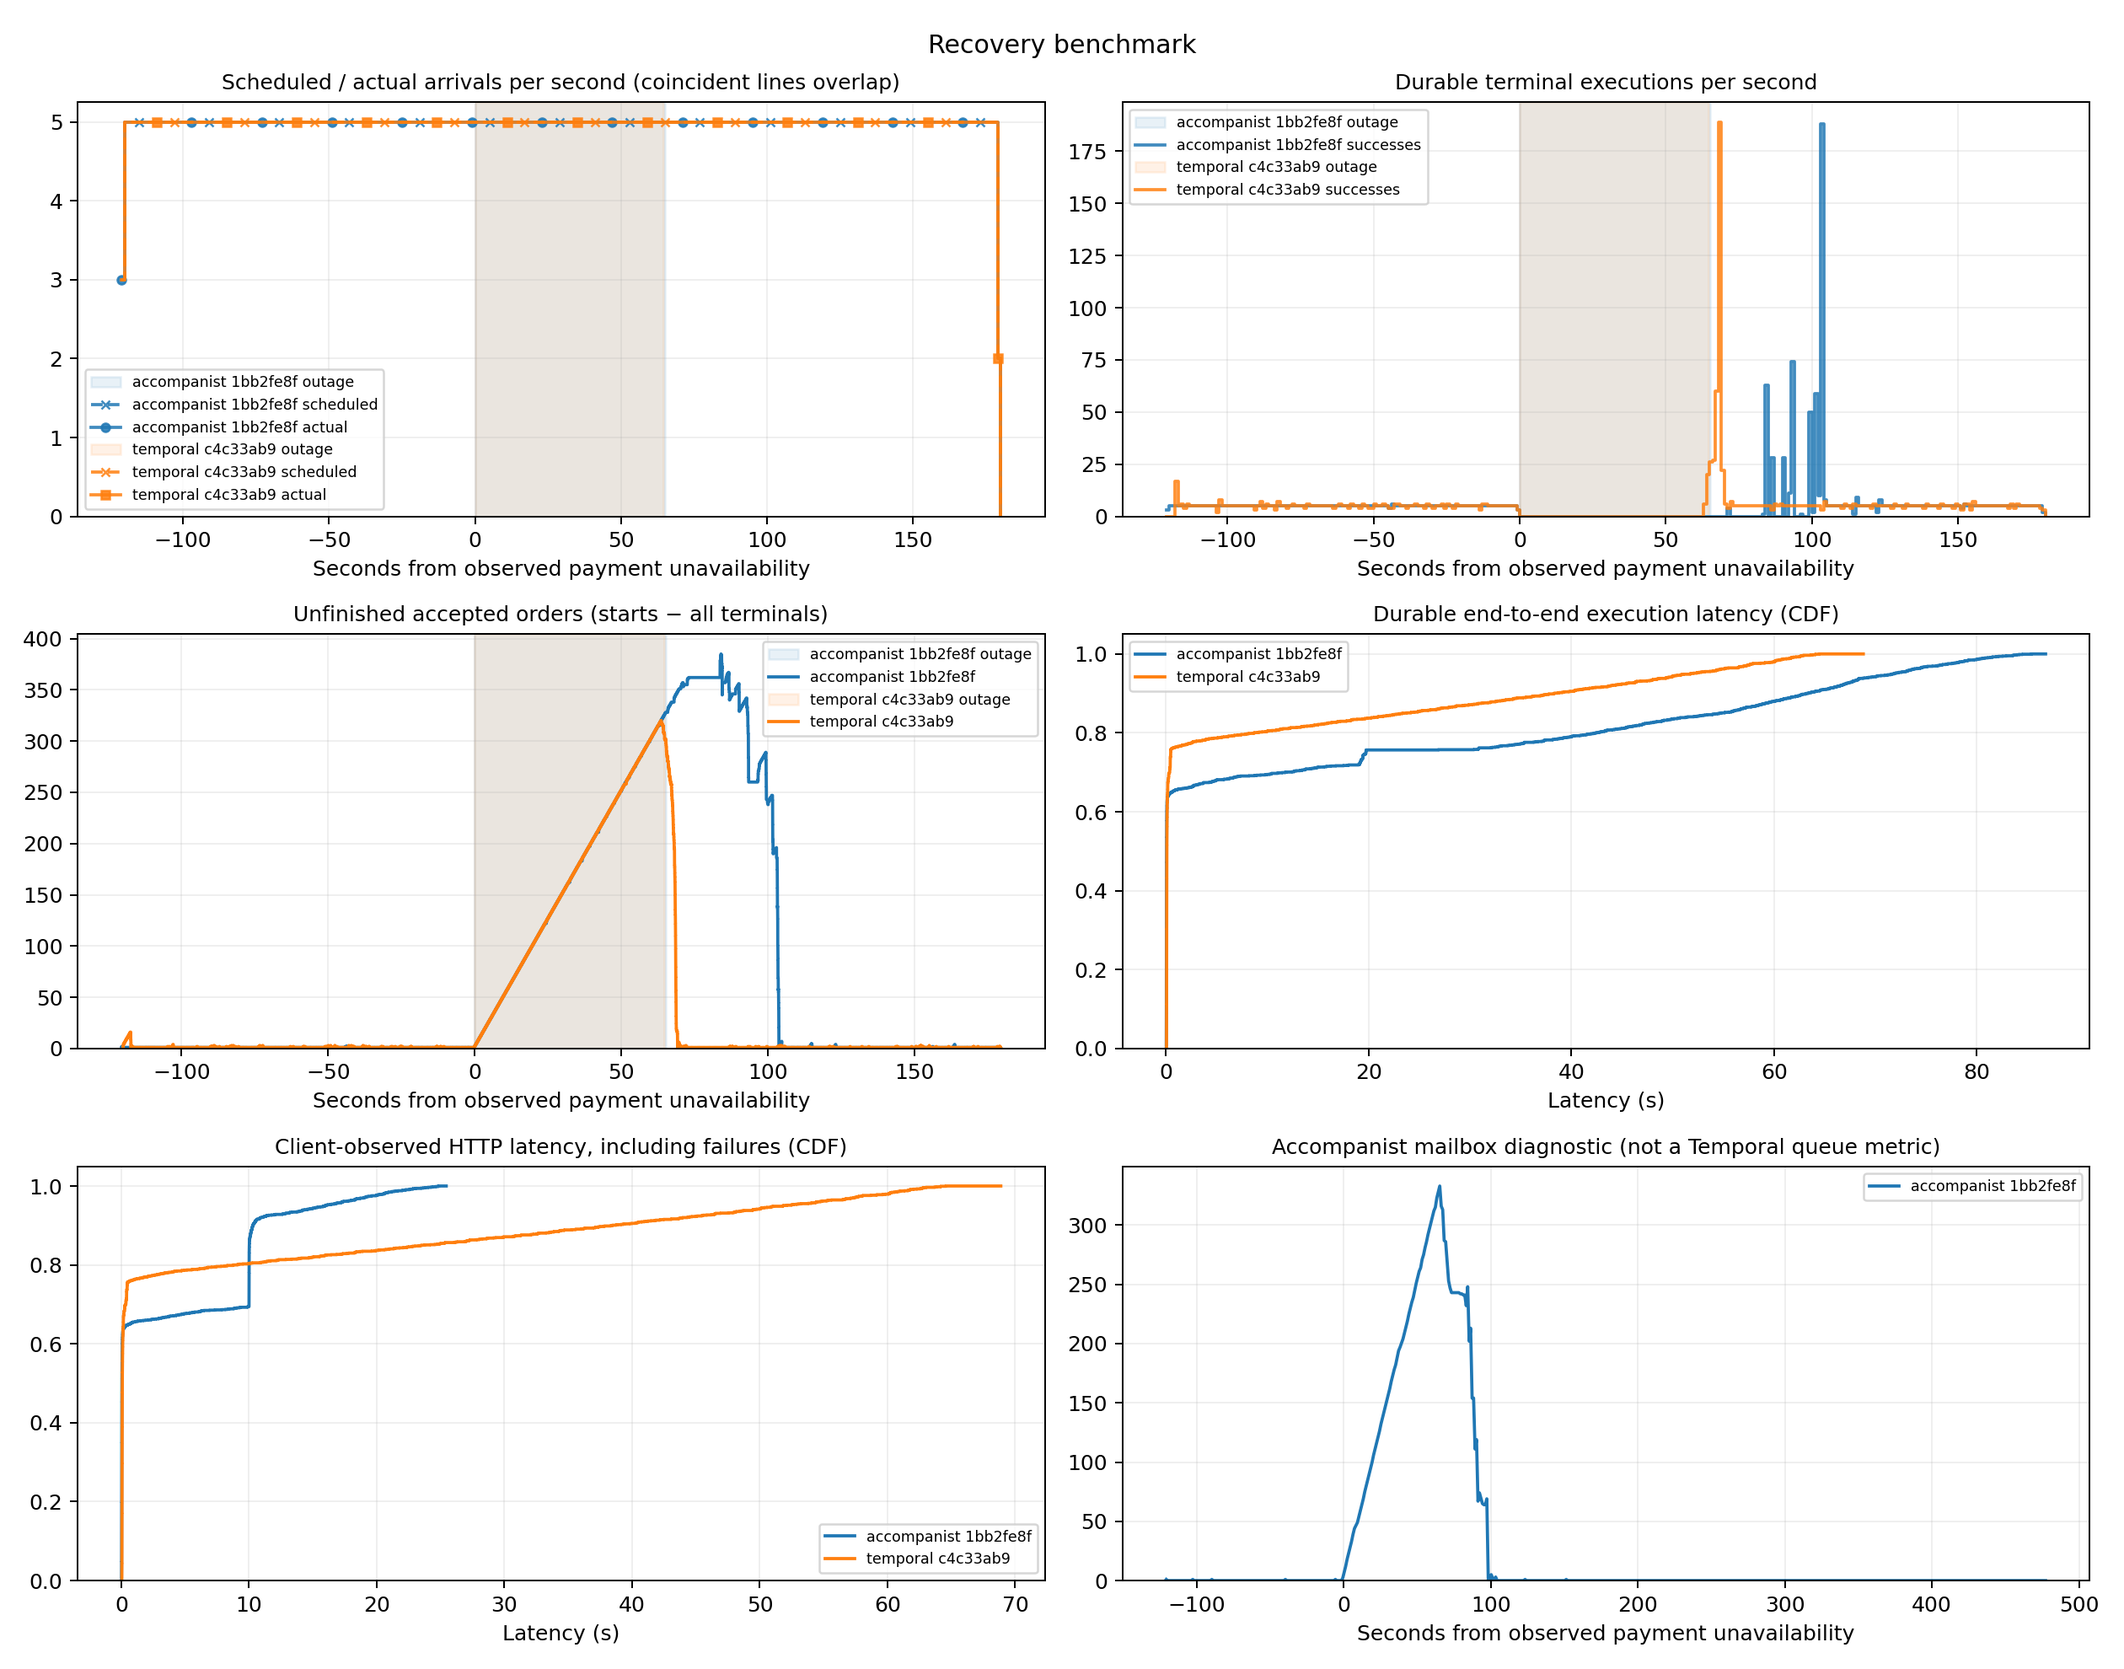
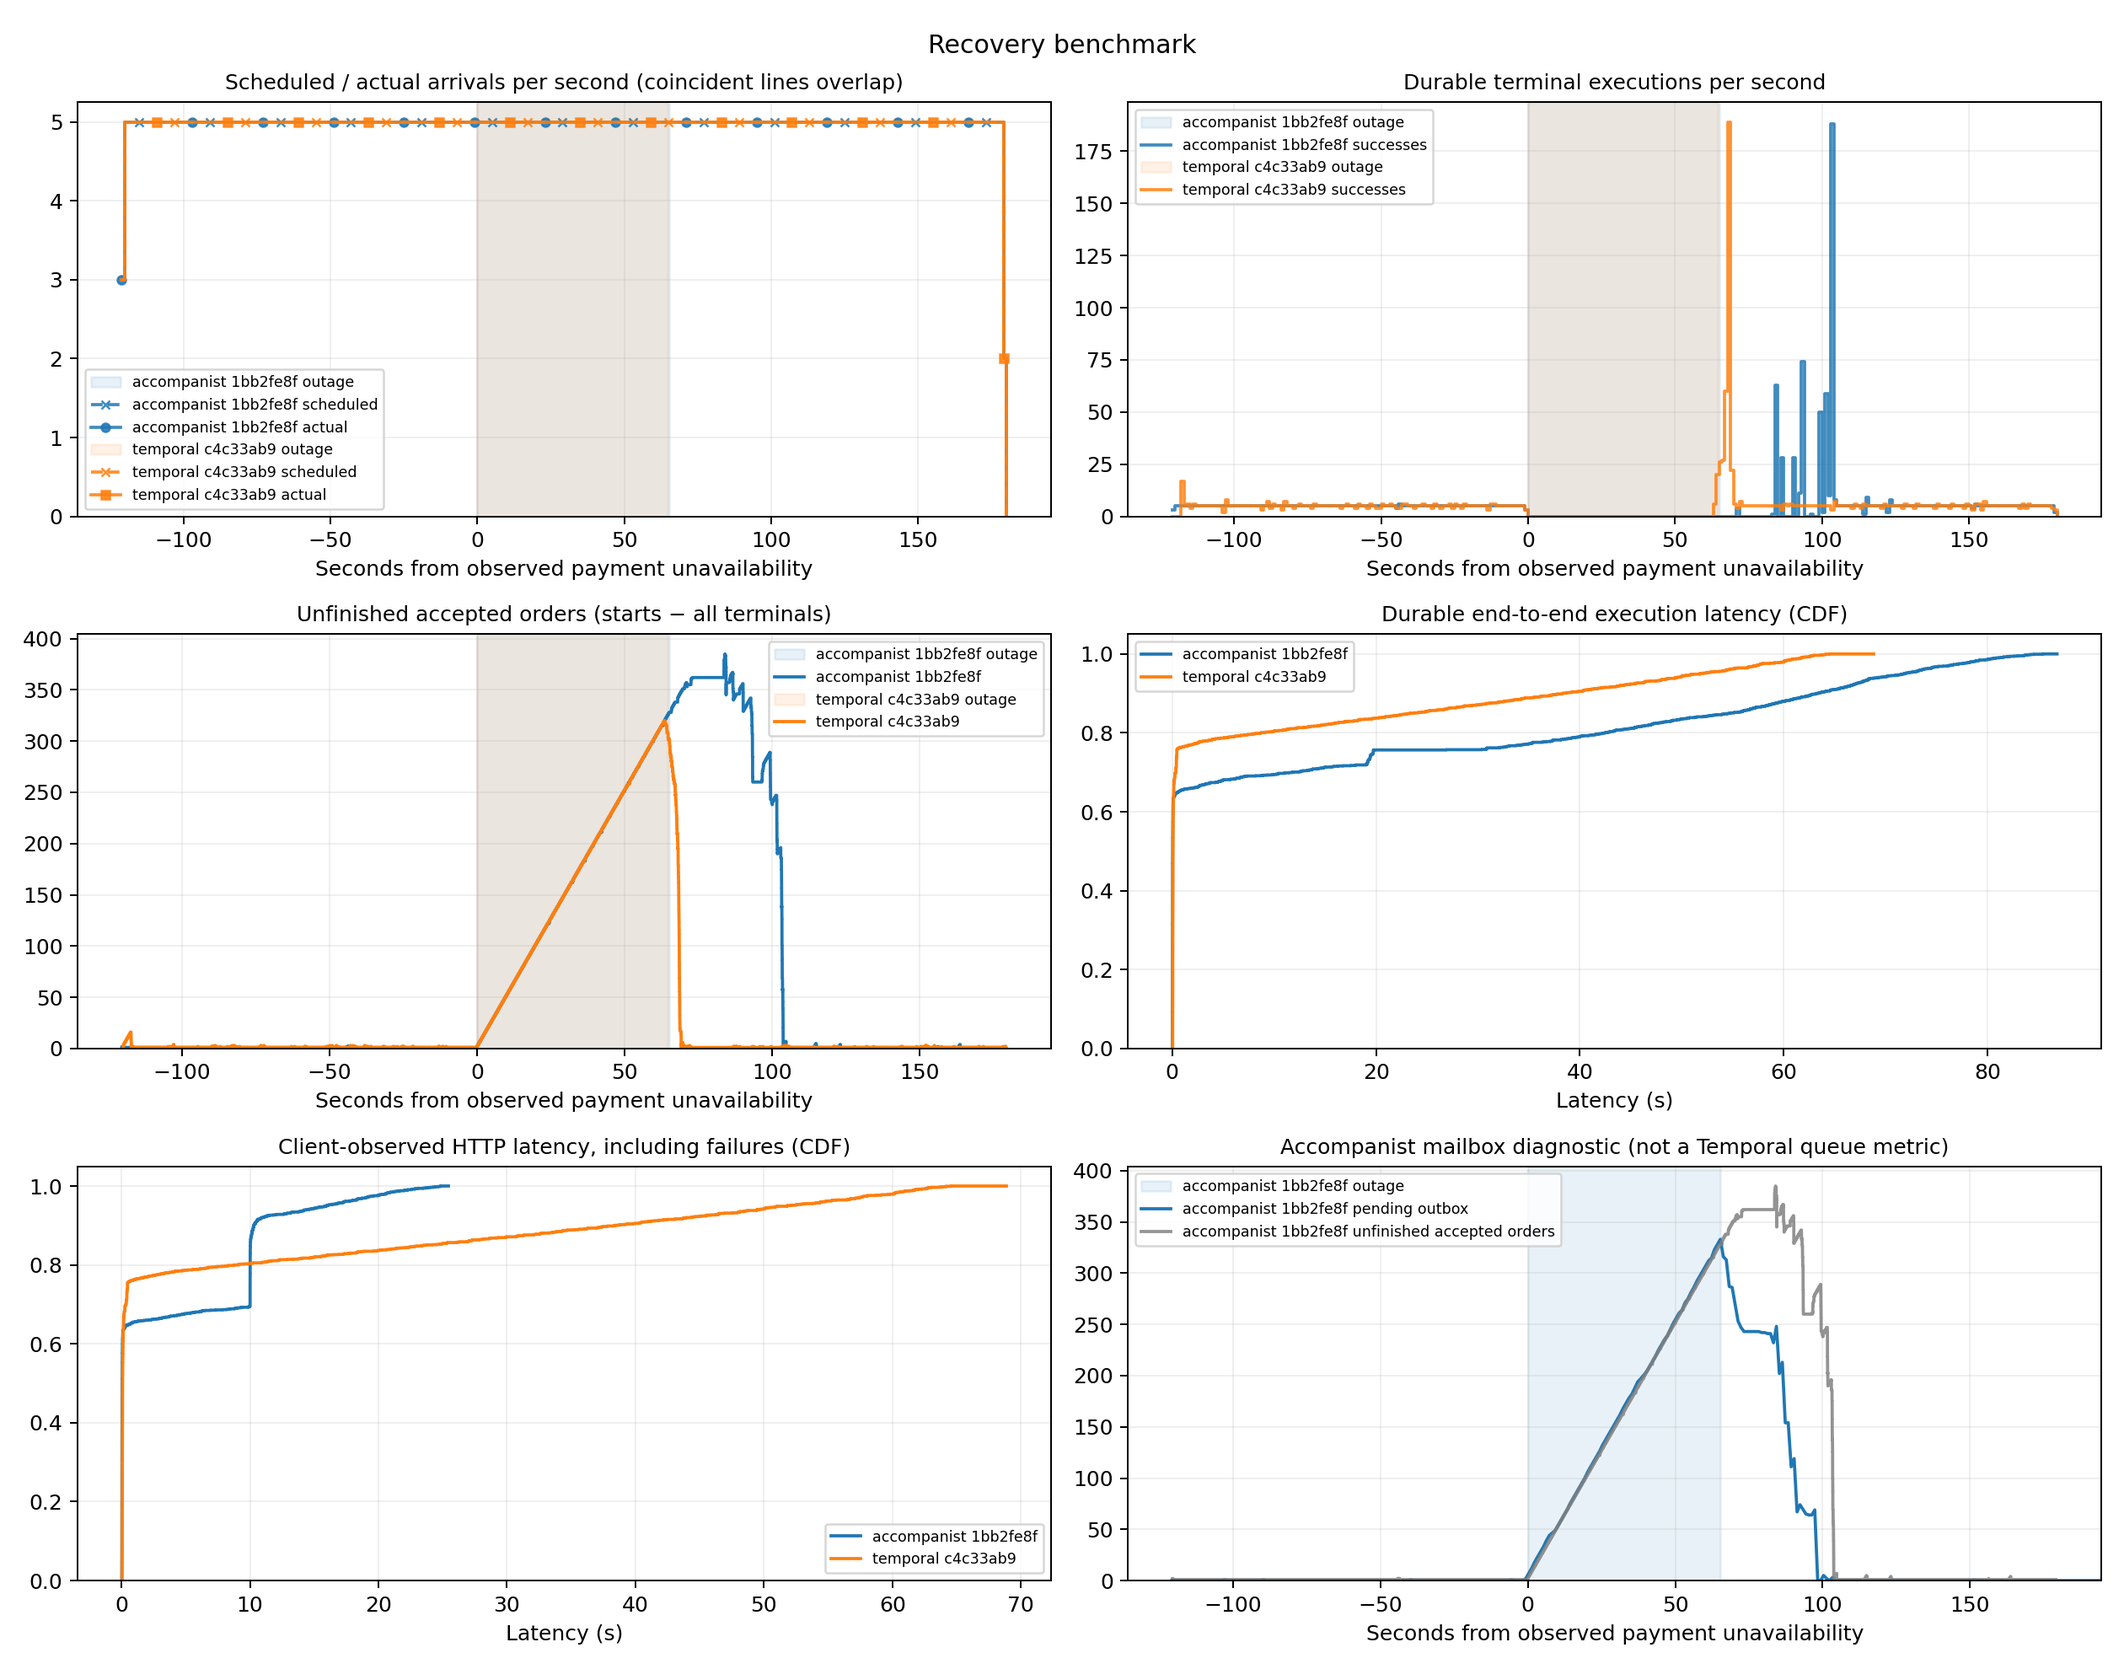
Add first AWS fault tolerance benchmark

diff --git a/examples/warehouse/benchmark_deploy.py b/examples/warehouse/benchmark_deploy.py
@@ -2,6 +2,8 @@
 """Build and deploy one benchmark stack, retaining evidence and shared storage."""
 import argparse
 import json
+import re
+import shlex
 import subprocess
 import tempfile
 from pathlib import Path
@@ -14,14 +16,58 @@ STACKS = {
                  'temporal-admin-tools', 'temporal-ui', 'postgresql'],
 }
 
+ECR_REPOSITORY = re.compile(
+    r'^(?:https?://)?(?P<registry>[0-9]+\.dkr\.ecr\.(?P<region>[a-z0-9-]+)\.amazonaws\.com(?:\.cn)?)(?:/|$)'
+)
+
+
+def authenticate_registry(default_repo):
+    """Log Docker into private ECR when the selected repository is hosted there."""
+    match = ECR_REPOSITORY.match(default_repo or '')
+    if not match:
+        return
+    password = subprocess.run(
+        ['aws', 'ecr', 'get-login-password', '--region', match.group('region')],
+        check=True, stdout=subprocess.PIPE,
+    ).stdout
+    subprocess.run(
+        ['docker', 'login', '--username', 'AWS', '--password-stdin', match.group('registry')],
+        input=password, check=True,
+    )
+
+
+def remote_build_options(default_repo):
+    """Match images to the x86-64 EKS nodes without colliding with native Mac tags."""
+    if not ECR_REPOSITORY.match(default_repo or ''):
+        return []
+    revision = subprocess.check_output(
+        ['git', 'rev-parse', '--short', 'HEAD'], cwd=ROOT, text=True,
+    ).strip()
+    return ['--platform', 'linux/amd64', '--tag', f'{revision}-linux-amd64']
+
+
+def ensure_namespace(context, namespace):
+    """Create or retain the dedicated benchmark namespace."""
+    manifest = {
+        'apiVersion': 'v1',
+        'kind': 'Namespace',
+        'metadata': {'name': namespace},
+    }
+    subprocess.run(
+        ['kubectl', '--context', context, 'apply', '-f', '-'],
+        input=json.dumps(manifest), text=True, check=True,
+    )
+
 
 def main():
     parser = argparse.ArgumentParser(description=__doc__)
     parser.add_argument('system', choices=STACKS)
     parser.add_argument('--context', required=True)
-    parser.add_argument('--namespace', default='warehouse-benchmark', help='Existing dedicated namespace')
+    parser.add_argument('--namespace', default='warehouse-benchmark', help='Dedicated namespace to create or reuse')
     parser.add_argument('--default-repo', help='Registry prefix, required for EKS')
     args = parser.parse_args()
+    authenticate_registry(args.default_repo)
+    ensure_namespace(args.context, args.namespace)
     kube = ['kubectl', '--context', args.context, '-n', args.namespace]
     def output(*cmd):
         return subprocess.check_output([*kube, *cmd], text=True, timeout=60)
@@ -37,10 +83,18 @@ def main():
             raise SystemExit(f'Collect and drain run {guard} before deploying or switching stacks')
     profile = ['-p','temporal'] if args.system == 'temporal' else []
     registry = ['--default-repo',args.default_repo] if args.default_repo else []
+    build_options = remote_build_options(args.default_repo)
     with tempfile.TemporaryDirectory(prefix='warehouse-deploy-') as directory:
         artifacts = str(Path(directory)/'images.json')
-        subprocess.run(['skaffold','build',*profile,*registry,'--kube-context',args.context,'--file-output',artifacts], cwd=ROOT, check=True)
-        rendered = subprocess.check_output(['skaffold','render',*profile,'--build-artifacts',artifacts],cwd=ROOT,text=True)
+        subprocess.run(
+            ['skaffold', 'build', *profile, *registry, *build_options,
+             '--kube-context', args.context, '--file-output', artifacts],
+            cwd=ROOT, check=True,
+        )
+        rendered = subprocess.check_output(
+            ['skaffold', 'render', *profile, *registry, '--build-artifacts', artifacts],
+            cwd=ROOT, text=True,
+        )
         # Disable UI starts during switching, then recheck the persistent guard to close the race.
         if existing:
             subprocess.run([*kube,'scale','deployment/loadgenerator','--replicas=0'],check=True)
@@ -72,7 +126,11 @@ def main():
         subprocess.run([*kube,'delete','service',*STACKS[other],'--ignore-not-found'],check=True)
         subprocess.run([*kube,'apply','-f','-'],input=rendered,text=True,check=True)
         subprocess.run([*kube,'rollout','status','deployment','--timeout=600s'],check=True)
-    print(f'{args.system} ready. Port-forward service/loadgenerator 8089:8089 in context {args.context}, namespace {args.namespace}.')
+    port_forward = shlex.join([
+        'kubectl', '--context', args.context, '--namespace', args.namespace,
+        'port-forward', 'service/loadgenerator', '8089:8089',
+    ])
+    print(f'{args.system} ready. Start the load-generator port forward with:\n{port_forward}')
 
 
 if __name__=='__main__': main()

diff --git a/examples/warehouse/tests/test_deploy.py b/examples/warehouse/tests/test_deploy.py
@@ -1,0 +1,62 @@
+"""Deployment helper tests that do not require benchmark runtime dependencies."""
+import sys
+import json
+import unittest
+from pathlib import Path
+from unittest.mock import patch
+
+sys.path.insert(0, str(Path(__file__).resolve().parents[1]))
+import benchmark_deploy
+
+
+class RegistryAuthenticationTests(unittest.TestCase):
+    @patch.object(benchmark_deploy.subprocess, 'run')
+    def test_private_ecr_login_uses_repository_region(self, run):
+        run.return_value.stdout = b'temporary-password\n'
+        benchmark_deploy.authenticate_registry(
+            '727646482479.dkr.ecr.eu-central-1.amazonaws.com/warehouse-eks-example'
+        )
+        self.assertEqual(run.call_args_list[0].args[0], [
+            'aws', 'ecr', 'get-login-password', '--region', 'eu-central-1'
+        ])
+        self.assertEqual(run.call_args_list[1].args[0], [
+            'docker', 'login', '--username', 'AWS', '--password-stdin',
+            '727646482479.dkr.ecr.eu-central-1.amazonaws.com'
+        ])
+        self.assertEqual(run.call_args_list[1].kwargs['input'], b'temporary-password\n')
+
+    @patch.object(benchmark_deploy.subprocess, 'run')
+    def test_non_ecr_repository_does_not_login(self, run):
+        benchmark_deploy.authenticate_registry('localhost:5000/warehouse')
+        run.assert_not_called()
+
+    @patch.object(benchmark_deploy.subprocess, 'run')
+    def test_namespace_is_applied_idempotently(self, run):
+        benchmark_deploy.ensure_namespace('eks-context', 'warehouse-benchmark')
+        self.assertEqual(run.call_args.args[0], [
+            'kubectl', '--context', 'eks-context', 'apply', '-f', '-'
+        ])
+        manifest = json.loads(run.call_args.kwargs['input'])
+        self.assertEqual(manifest, {
+            'apiVersion': 'v1',
+            'kind': 'Namespace',
+            'metadata': {'name': 'warehouse-benchmark'},
+        })
+
+    @patch.object(benchmark_deploy.subprocess, 'check_output', return_value='455e2f4\n')
+    def test_ecr_build_targets_x86_with_distinct_tag(self, check_output):
+        options = benchmark_deploy.remote_build_options(
+            '727646482479.dkr.ecr.eu-central-1.amazonaws.com/warehouse-eks-example'
+        )
+        self.assertEqual(options, [
+            '--platform', 'linux/amd64', '--tag', '455e2f4-linux-amd64'
+        ])
+
+    @patch.object(benchmark_deploy.subprocess, 'check_output')
+    def test_local_build_uses_native_platform_and_tag(self, check_output):
+        self.assertEqual(benchmark_deploy.remote_build_options(None), [])
+        check_output.assert_not_called()
+
+
+if __name__ == '__main__':
+    unittest.main()

diff --git a/examples/warehouse/results/plot_run.py b/examples/warehouse/results/plot_run.py
@@ -88,7 +88,8 @@ def plot(bundles, output):
         if xs:
             xs.append(max(xs[-1], phases.get("test-stop", origin) - origin))
             ys.append(outstanding)
-        axes[2].step(xs, ys, where="post", color=color, label=label)
+        unfinished_xs, unfinished_ys = xs, ys
+        axes[2].step(unfinished_xs, unfinished_ys, where="post", color=color, label=label)
         latencies = sorted(row["terminal_at"] - row["started_at"] for row in executions
                            if row["status"] == "completed" and row["terminal_at"] is not None and row["started_at"] is not None)
         if latencies:
@@ -100,7 +101,15 @@ def plot(bundles, output):
         if config["system"] == "accompanist" and samples.exists():
             with samples.open() as stream:
                 xs, ys = mailbox_series(stream, config["run_id"], origin)
-            axes[5].plot(xs, ys, label=label)
+            if ready:
+                axes[5].axvspan(0, ready - origin, color=color, alpha=0.1,
+                                label=label + " outage")
+            axes[5].plot(xs, ys, color=color, label=label + " pending outbox")
+            axes[5].step(unfinished_xs, unfinished_ys, where="post", color="grey",
+                         alpha=.85, label=label + " unfinished accepted orders")
+    # Mailbox sampling can continue after the load test has ended. Keep the diagnostic on the
+    # same displayed timeline as the other non-latency benchmark plots for direct comparison.
+    axes[5].set_xlim(axes[2].get_xlim())
     titles = ["Scheduled / actual arrivals per second (coincident lines overlap)", "Durable terminal executions per second",
               "Unfinished accepted orders (starts − all terminals)", "Durable end-to-end execution latency (CDF)",
               "Client-observed HTTP latency, including failures (CDF)", "Accompanist mailbox diagnostic (not a Temporal queue metric)"]

diff --git a/examples/warehouse/aws-deployment/README.md b/examples/warehouse/aws-deployment/README.md
@@ -1,7 +1,8 @@
 # Warehouse benchmark on EKS
 
 This configuration extends the [EKS tutorial](https://developer.hashicorp.com/terraform/tutorials/kubernetes/eks)
-with Kubernetes 1.35, AL2023 nodes and immutable ECR repositories for benchmark images.
+with Kubernetes 1.35, AL2023 nodes, a default EBS CSI `gp3` storage class and immutable
+ECR repositories for benchmark images.
 
 Review and provision from this directory using your AWS account:
 
@@ -13,11 +14,14 @@ aws eks update-kubeconfig --region eu-central-1 --name "$(terraform output -raw 
 terraform output -raw skaffold_default_repo
 ```
 
-Authenticate Docker to your ECR registry with `aws ecr get-login-password` and
-`docker login --username AWS --password-stdin`. Use the registry prefix above with
-`benchmark_deploy.py --default-repo`. See [BENCHMARK.md](../BENCHMARK.md) for deployment,
-namespace creation, port forwards, collection and comparison. No public dashboard
-load balancers are required. The same Kubernetes manifests run locally and on EKS.
+Use the registry prefix above with `benchmark_deploy.py --default-repo`. The deployment
+helper recognizes private ECR repository URLs and obtains a temporary Docker login with
+the AWS CLI before building and pushing `linux/amd64` images for the x86-64 node group.
+Architecture-qualified tags keep these builds distinct from native Apple Silicon images
+in the immutable repositories. See [BENCHMARK.md](../BENCHMARK.md) for deployment, port
+forwards, collection and comparison. The helper creates or reuses its dedicated namespace
+automatically. No public dashboard load balancers are required. The same Kubernetes
+manifests run locally and on EKS.
 
 Terraform provisioning and EKS benchmark acceptance require an AWS account and have
 not been executed as part of the local implementation checks.

diff --git a/examples/warehouse/BENCHMARK.md b/examples/warehouse/BENCHMARK.md
@@ -154,17 +154,19 @@ The existing Terraform foundation now defaults to Kubernetes `1.35` and AL2023 a
 creates immutable ECR repositories for the six application images. Check regional
 availability before provisioning; see
 the [AWS version lifecycle](https://docs.aws.amazon.com/eks/latest/userguide/kubernetes-versions.html).
-Provision with the existing `aws-deployment` instructions. Authenticate Docker to ECR,
-then use the `skaffold_default_repo` Terraform output:
+Provision with the existing `aws-deployment` instructions, then use the
+`skaffold_default_repo` Terraform output. The deployment helper authenticates Docker
+to private ECR automatically using the active AWS CLI credentials:
 
 ```sh
-python3 benchmark_deploy.py temporal --context YOUR_EKS_CONTEXT --default-repo ECR_PREFIX
-./results/collect_run.sh RUN_UUID --context YOUR_EKS_CONTEXT --namespace warehouse-benchmark --output ./results
+python3 benchmark_deploy.py temporal --context $YOUR_EKS_CONTEXT --default-repo $ECR_PREFIX
+./results/collect_run.sh $RUN_UUID --context $YOUR_EKS_CONTEXT --namespace warehouse-benchmark --output ./results
 ```
 
-Create the namespace first. EKS nodes need registry pull permissions; the existing
-managed-node role supplies them. Use port forwards for Locust, Temporal UI and
-Accompanist Grafana (`svc/lgtm 3000:3000`), without public dashboard ingress.
+The deployment helper creates or reuses the selected namespace. EKS nodes need
+registry pull permissions; the existing managed-node role supplies them. Use port
+forwards for Locust, Temporal UI and Accompanist Grafana (`svc/lgtm 3000:3000`),
+without public dashboard ingress.
 
 ## Validation
 
